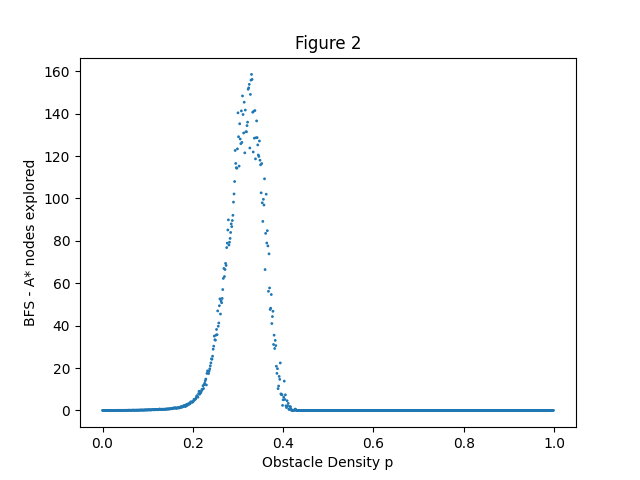
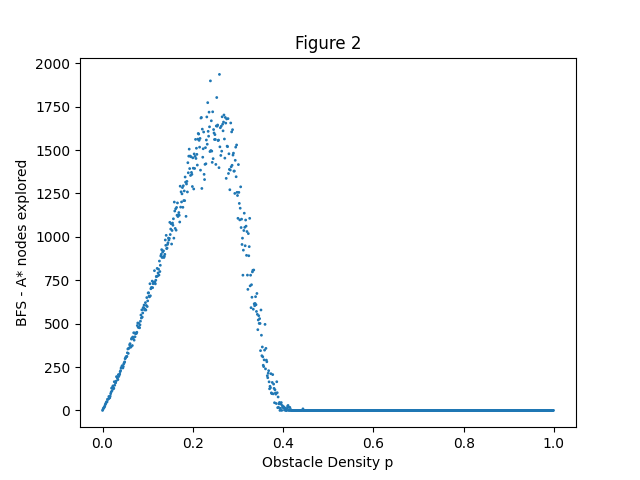
Flammability graph done, optimized A* even more

diff --git a/main.py b/main.py
@@ -102,60 +102,77 @@ def p4_trial(dim, p):
     a_star(maze, (0, 0), (dim - 1, dim - 1))
     return (time.time() - t)
 
+
 def problem6():
-    debug = True
-    base_maze = generate_maze(8, 0.2)
-    base_fires = [start_fire(base_maze)]
+    exec = concurrent.futures.ProcessPoolExecutor()
+    q_steps = 40
+    q_trials = 40
+    dim = 75
+
+    t = time.time()
+
+    x = [q / q_steps for q in range(q_steps)]
+    ys = [[0 for _ in range(q_steps)] for _ in range(3)]
+    h_map = {}
+    h = lambda f, g : math.sqrt(math.pow(f[0]-g[0], 2) + math.pow(f[1]-g[1], 2))
+    for i in range(75):
+        for j in range(75):
+            h_map[(i, j)] = h((i, j), (74, 74))
+
+    futures = {exec.submit(p6_trial, h_map = h_map, dim = dim, q = q / q_steps): q / q_steps for _ in range(q_trials) for q in range(q_steps)}
+    for f in concurrent.futures.as_completed(futures):
+        results = f.result()
+        for i in range(3):
+            ys[i][round(futures[f] * q_steps)] += results[i] / q_trials
+
+    print(time.time() - t)
+
+    plt.scatter(x, ys[0], s=[5 for _ in x], c="Red")
+    plt.scatter(x, ys[1], s=[5 for _ in x], c="Blue")
+    plt.scatter(x, ys[2], s=[5 for _ in x], c="Green")
+    plt.title('Figure 6')
+    plt.xlabel('Flammability Rate, q')
+    plt.ylabel('Success Rate')
+    plt.show()
+    plt.savefig('figure6.png')
 
 
-    maze, fires = deepcopy(base_maze), deepcopy(base_fires)
-    results = [-1] * 3
-    nexts = [(0, 0)] * 3
-    deqs = [a_star(maze, nexts[0], (len(maze) - 1, len(maze) - 1), path=True), None, None]
+def p6_trial(dim = 100, p = 0.3, q = 0.3, h_map = None, debug = False):
+    results, nexts, deqs = [-1] * 3, [(0, 0)] * 3, [None] * 3
+
+    while not deqs[0] or not deqs[1]:
+        maze = generate_maze(dim, p)
+        fires = [start_fire(maze)]
+        maze[fires[0][0]][fires[0][1]] = 0
+        deqs[0] = a_star(maze, nexts[0], (len(maze) - 1, len(maze) - 1), h_map = h_map, path=True)
+        deqs[1] = a_star(maze, nexts[1], fires[0], h_map = h_map, path=True)
+        maze[fires[0][0]][fires[0][1]] = 2
+
     while True:
+        deqs[1] = a_star(maze, nexts[1], (len(maze) - 1, len(maze) - 1), h_map = h_map, path=True)
+
+        maze, fires = tick_maze(maze, fires, q)
+
         if debug:
             print_maze(maze, nexts[1])
-        print (deqs[0], deqs[1])
-        if deqs[0]:
-            nexts[0] = deqs[0].popleft()
-            if maze[nexts[0][0]][nexts[0][1]] != 0:
-                results[0] = 0
-                deqs[0].clear()
+            print (deqs[0], deqs[1])
 
-        deqs[1] = a_star(maze, nexts[1], (len(maze) - 1, len(maze) - 1), path=True)
-        if deqs[1]:
-            nexts[1] = deqs[1].popleft()
+        for i in range(len(deqs)):
+            if deqs[i]:
+                nexts[i] = deqs[i].popleft()
+                if maze[nexts[i][0]][nexts[i][1]] != 0:
+                    results[i] = 0
+                    deqs[i].clear()
 
-        if not deqs[0] and not deqs[1]:
-            results[0] = 1 if nexts[0] == (len(maze) - 1, len(maze) - 1) else 0
-            results[1] = 1 if nexts[1] == (len(maze) - 1, len(maze) - 1) else 0
+        if not [deq for deq in deqs if deq]:
+            for i in range(len(results)):
+                results[i] = 1 if nexts[i] == (len(maze) - 1, len(maze) - 1) else 0
             break
 
-        maze, fires = tick_maze(maze, fires, 0.4)
         if debug:
             print (nexts[1])
 
-    print (results)
     return results
-
-
-
-    # maze, fires = deepcopy(base_maze), deepcopy(base_fires)
-    # next = (0, 0)
-    # result_two = 0
-    # while next:
-    #     if debug:
-    #         print_maze(maze, next)
-    #     deq = a_star(maze, next, (len(maze) - 1, len(maze) - 1), path=True)
-    #     if deq:
-    #         next = deq.popleft()
-    #     else:
-    #         if next == (len(maze) - 1, len(maze) - 1):
-    #             result_two = Tru1
-    #         break
-    #     if debug:
-    #         print(next)
-    #     maze, fires = tick_maze(maze, fires, 0.3)
 
 
 def fire_sim():

diff --git a/util.py b/util.py
@@ -1,6 +1,5 @@
 import math, random, heapq
 from collections import deque
-from copy import deepcopy
 
 '''
 Representation:
@@ -40,7 +39,7 @@ def adj_cells(pair):
     :param pair: Coordinates of some cell
     :return: Generator which produces the four adjacent coordinates
     """
-    dx, dy = [0, 0, -1, 1], [-1, 1, 0, 0]
+    dx, dy = [0, -1, 0, 1], [-1, 0, 1, 0]
     for i in range(4):
         yield (pair[0] + dx[i], pair[1] + dy[i])
 
@@ -131,8 +130,8 @@ def tick_maze(maze, fires, q):
         return num_fires
 
     # Generate a copy of current fires and maze
-    new_fires = deepcopy(fires)
-    new_maze = deepcopy(maze)
+    new_fires = fires[:]
+    new_maze = [row[:] for row in maze]
     visited = set()
 
     # For each fire, we check its neighbors
@@ -222,7 +221,7 @@ def bfs(maze, s, g):
     return num_visited
 
 
-def a_star(maze, s, g, path = False):
+def a_star(maze, s, g, h_map, path = False):
     """
     Given a maze, performs A* search algorithm starting from s
     and checks if cell g is reachable. Return num visited cells.
@@ -232,21 +231,16 @@ def a_star(maze, s, g, path = False):
     :return: Integer of the number of visited cells
     """
 
-    # h is the heuristic function, returning the Euclidean distance from f to g
-    h = lambda f, g : math.sqrt(math.pow(f[0]-g[0], 2) + math.pow(f[1]-g[1], 2))
-
-    # h = lambda f, g: math.fabs(f[0]-g[0]) + math.fabs(f[1]-g[1]) # Taxicab distance
-
     # Have all cells be infinite distasnce away except for start cell
-    dist = [[(float("inf")) for _ in range(len(maze))] for _ in range(len(maze))]
+    parent = [[None for _ in maze] for _ in maze]
+    dist = [[(float("inf")) for _ in maze] for _ in maze]
+
     dist[s[0]][s[1]] = 0
     num_visited = 0
     visited = {s}
     # Use a heap data structure for the fringe
     fringe = [(0, s)]
 
-    if path:
-        parent = [[(-1, -1) for _ in range(len(maze))] for _ in range(len(maze))]
 
     # While cells are in fringe
     while fringe:
@@ -264,15 +258,14 @@ def a_star(maze, s, g, path = False):
                 dist_v = dist[v[0]][v[1]]
                 if dist_v + 1 < dist[x][y]:
                     dist[x][y] = dist_v + 1
-                    if path:
-                        parent[x][y] = (v[0], v[1])
-                    heapq.heappush(fringe, (dist_v + 1 + h((x, y), g), (x, y)))
+                    parent[x][y] = (v[0], v[1])
+                    heapq.heappush(fringe, (dist_v + 1 + h_map[(x, y)], (x, y)))
 
     if path:
         shortest_path = deque()
         shortest_path.append(g)
         prev = parent[g[0]][g[1]]
-        if prev == (-1, -1):
+        if prev == None:
             return None
         while prev != s:
             shortest_path.appendleft(prev)
